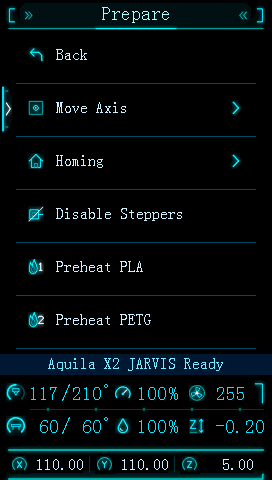
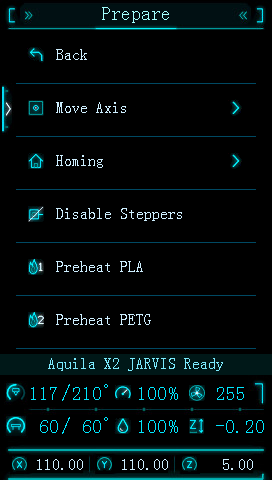
jarvis: dark teal popup/status background (0,6,3)
- ruling R14 (user's choice after the mockup review): StatusBg (C11 E10)
  and PopupBg (C11 E12) from (0,6,6), shown navy (0,24,49), to (0,6,3),
  dark teal (0,24,24), in jarvis_spec.PALETTE and in the JARVIS_PALETTE
  branch of dwin_defines.h
- themes/jarvis_theme.gcode regenerated by jarvis_spec.py (theme and
  defines checks OK)
- mockups regenerated: main, print, menu, popup, alert and contact change
  (each also @2x); boot, boot_black and main_stock are byte-identical

Changed region(s): [[0.0, 0.7188, 1.0, 0.7812]]

diff --git a/Marlin/src/lcd/dwin/proui/dwin_defines.h b/Marlin/src/lcd/dwin/proui/dwin_defines.h
@@ -76,9 +76,9 @@
   #define Def_Selected_Color    (RGB( 0, 20, 10))
   #define Def_SplitLine_Color   (RGB( 0, 18, 12))
   #define Def_Highlight_Color   JV_TEAL           // Popup frame
-  #define Def_StatusBg_Color    (RGB( 0,  6,  6))
+  #define Def_StatusBg_Color    (RGB( 0,  6,  3))
   #define Def_StatusTxt_Color   (RGB(15, 58, 31))
-  #define Def_PopupBg_Color     (RGB( 0,  6,  6))
+  #define Def_PopupBg_Color     (RGB( 0,  6,  3))
   #define Def_PopupTxt_Color    JV_ICE
   #define Def_AlertBg_Color     (RGB( 8,  6,  0))
   #define Def_AlertTxt_Color    JV_AMBER

diff --git a/buildroot/share/dwin/jarvis/jarvis_spec.py b/buildroot/share/dwin/jarvis/jarvis_spec.py
@@ -65,9 +65,9 @@ PALETTE = {
     7:  (0, 20, 10),
     8:  (0, 18, 12),
     9:  JV['TEAL'],     # popup frame
-    10: (0, 6, 6),
+    10: (0, 6, 3),
     11: (15, 58, 31),
-    12: (0, 6, 6),
+    12: (0, 6, 3),
     13: JV['ICE'],
     14: (8, 6, 0),
     15: JV['AMBER'],
